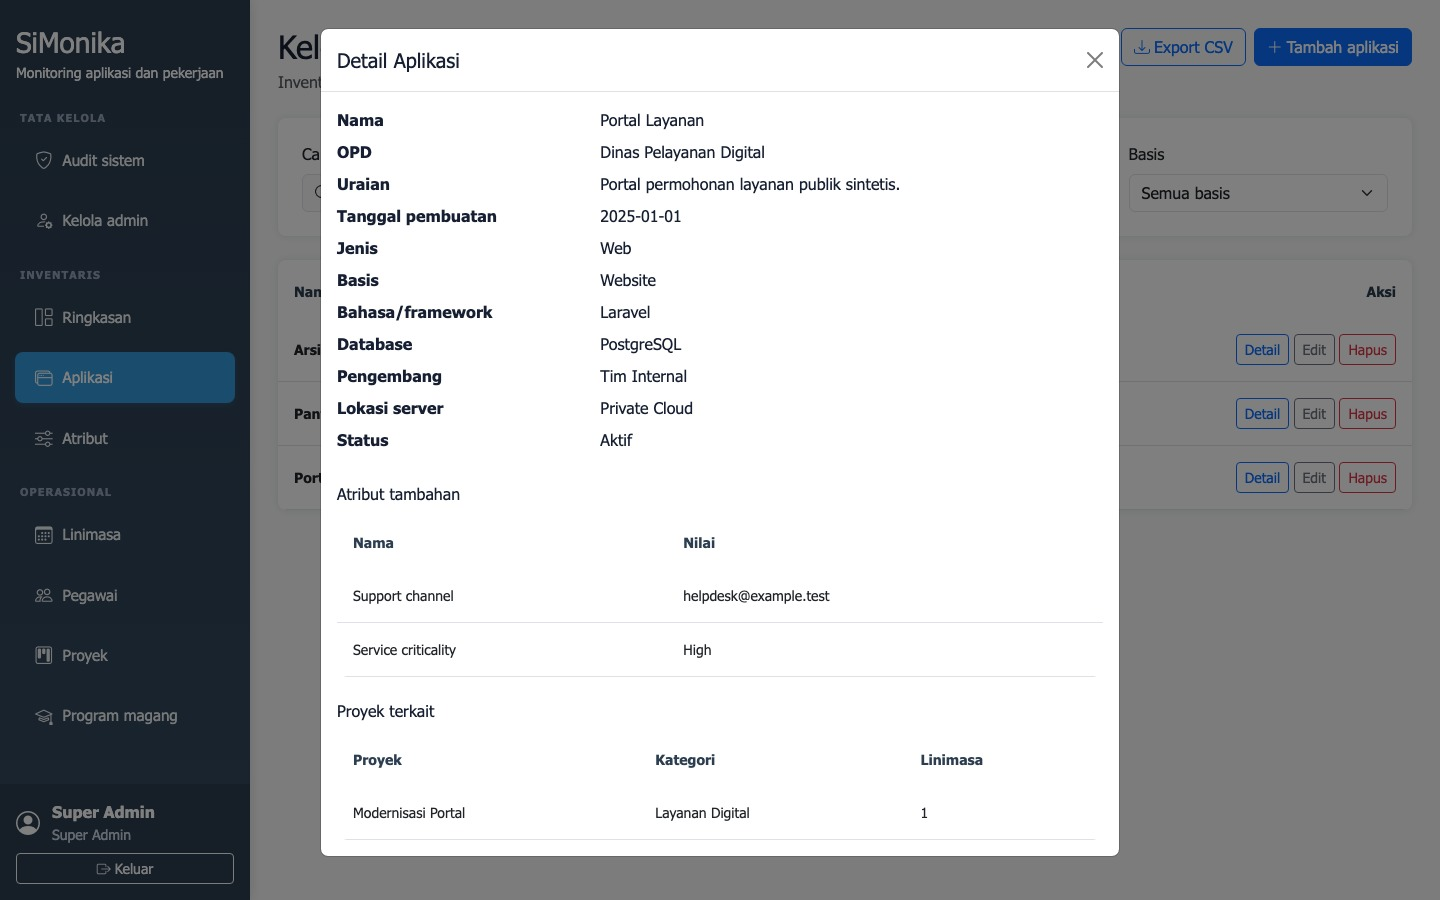
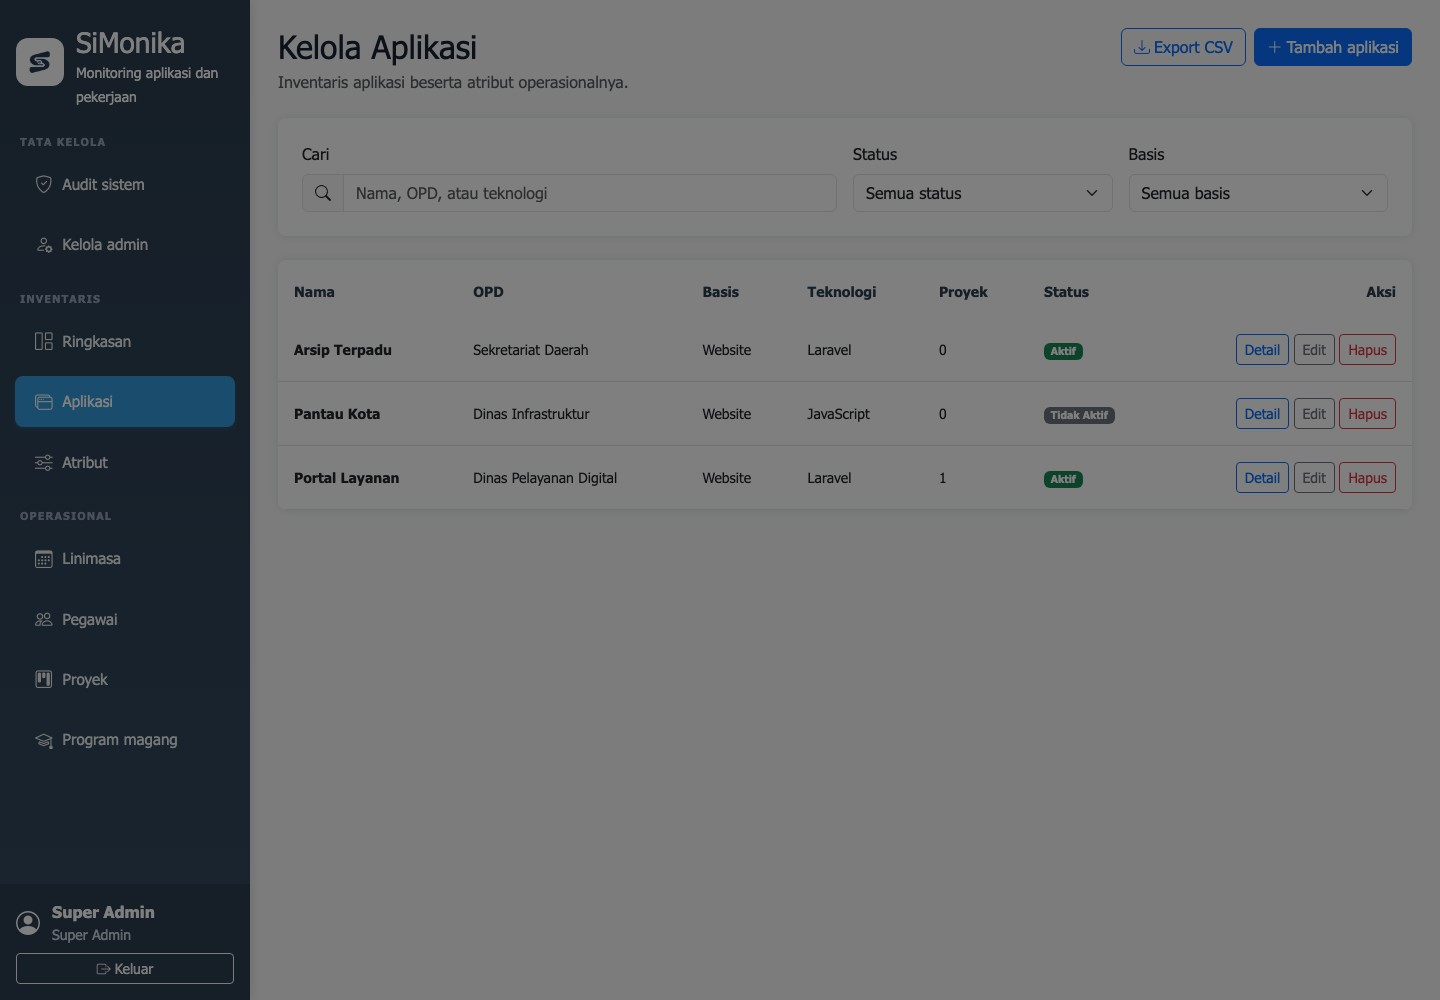
feat: integrate approved SiMonika identity

diff --git a/public/css/components.css b/public/css/components.css
@@ -141,6 +141,23 @@ body {
     min-height: 82px;
 }
 
+.app-brand {
+    align-items: center;
+    display: flex;
+    gap: 0.75rem;
+}
+
+.app-brand-mark {
+    background: #ffffff;
+    border-radius: 12px;
+    box-sizing: content-box;
+    flex: 0 0 auto;
+    height: 38px;
+    object-fit: contain;
+    padding: 5px;
+    width: 38px;
+}
+
 @media (max-width: 767px) {
     .main-content {
         padding: 62px 14px 20px;

diff --git a/resources/views/auth/login.blade.php b/resources/views/auth/login.blade.php
@@ -4,6 +4,7 @@
     <meta charset="UTF-8" />
     <meta name="viewport" content="width=device-width, initial-scale=1.0" />
     <title>Login - SiMonika</title>
+    <link rel="icon" type="image/png" href="{{ asset('images/brand/simonika-mark-32.png') }}" />
     <link
         href="https://cdnjs.cloudflare.com/ajax/libs/bootstrap/5.3.0/css/bootstrap.min.css"
         rel="stylesheet"
@@ -38,8 +39,20 @@
         }
 
         .login-header .logo {
-            font-size: 2rem;
+            align-items: center;
+            display: flex;
+            justify-content: center;
             margin-bottom: 10px;
+        }
+
+        .login-header .logo img {
+            background: #ffffff;
+            border-radius: 18px;
+            box-sizing: content-box;
+            height: 64px;
+            object-fit: contain;
+            padding: 8px;
+            width: 64px;
         }
 
         .login-body {
@@ -107,7 +120,10 @@
     <div class="login-container">
         <div class="login-header">
             <div class="logo">
-                <i class="bi bi-display"></i>
+                <img
+                    src="{{ asset('images/brand/simonika-mark-64.png') }}"
+                    alt="SiMonika application monitoring mark"
+                />
             </div>
             <h4 class="mb-0">SiMonika</h4>
             <small>Sistem Monitoring Aplikasi</small>

diff --git a/resources/views/templates/sidebar.blade.php b/resources/views/templates/sidebar.blade.php
@@ -6,9 +6,16 @@
 <div class="sidebar-overlay"></div>
 <aside class="sidebar">
     <div class="sidebar-header px-3 pt-3">
-        <div class="app-title text-start">
-            <h3 class="mb-0">SiMonika</h3>
-            <small>Monitoring aplikasi dan pekerjaan</small>
+        <div class="app-brand">
+            <img
+                class="app-brand-mark"
+                src="{{ asset('images/brand/simonika-mark-64.png') }}"
+                alt=""
+            />
+            <div class="app-title text-start">
+                <h3 class="mb-0">SiMonika</h3>
+                <small>Monitoring aplikasi dan pekerjaan</small>
+            </div>
         </div>
     </div>
 

diff --git a/resources/views/layouts/authenticated.blade.php b/resources/views/layouts/authenticated.blade.php
@@ -5,6 +5,7 @@
     <meta name="viewport" content="width=device-width, initial-scale=1.0" />
     <meta name="csrf-token" content="{{ csrf_token() }}" />
     <title>@yield ('title', 'SiMonika')</title>
+    <link rel="icon" type="image/png" href="{{ asset('images/brand/simonika-mark-32.png') }}" />
     <link
         href="https://cdnjs.cloudflare.com/ajax/libs/bootstrap/5.3.0/css/bootstrap.min.css"
         rel="stylesheet"

diff --git a/resources/views/auth/reset-password.blade.php b/resources/views/auth/reset-password.blade.php
@@ -4,6 +4,7 @@
     <meta charset="UTF-8" />
     <meta name="viewport" content="width=device-width, initial-scale=1.0" />
     <title>Reset Password - SiMonika</title>
+    <link rel="icon" type="image/png" href="{{ asset('images/brand/simonika-mark-32.png') }}" />
     <link
         href="https://cdnjs.cloudflare.com/ajax/libs/bootstrap/5.3.0/css/bootstrap.min.css"
         rel="stylesheet"

diff --git a/resources/views/auth/forgot-password.blade.php b/resources/views/auth/forgot-password.blade.php
@@ -4,6 +4,7 @@
     <meta charset="UTF-8" />
     <meta name="viewport" content="width=device-width, initial-scale=1.0" />
     <title>Lupa Password - SiMonika</title>
+    <link rel="icon" type="image/png" href="{{ asset('images/brand/simonika-mark-32.png') }}" />
     <link
         href="https://cdnjs.cloudflare.com/ajax/libs/bootstrap/5.3.0/css/bootstrap.min.css"
         rel="stylesheet"

diff --git a/README.md b/README.md
@@ -1,8 +1,14 @@
+<p align="center">
+  <img src="docs/brand/simonika-lockup.png" alt="SiMonika application monitoring identity" width="520" />
+</p>
+
 # SiMonika
 
 SiMonika is an application inventory and project monitoring system for an operations team. It records deployed applications, flexible application metadata, employees, projects, timelines, internship participants, and administrative activity.
 
 This repository is a sanitized portfolio edition of an internship project that originally stopped before it was ready for public evaluation. It contains no government database, production credentials, internal hostnames, or employee records.
+
+The continuous S-shaped mark represents operational records moving through one monitored workflow. Its blue status node reflects the active state that turns an inventory into a working control surface.
 
 ## Problem and users
 
